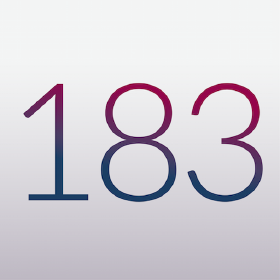
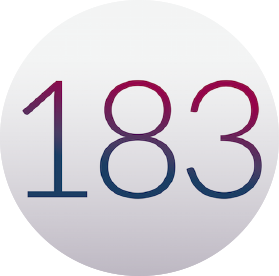
added extensions to picture fileNames, fixed some bugs/ technical issues, and hopefully some other breakthroughs

diff --git a/index.html b/index.html
@@ -35,7 +35,7 @@
     <!--Font Awesome-->
[1 lines of base64/hex data omitted]
     <script src="//ajax.googleapis.com/ajax/libs/jquery/1.10.2/jquery.min.js"></script>
-    <link rel="icon" type="image/png" href="./static/img/icon.png">
+    <link rel="icon" type="image/png" href="./icon.png">
     <title>Robro</title>
 </head>
 <body>
@@ -67,33 +67,33 @@
 	</nav>
 	<!-- Header -->  
 
-  
-<section class="hero is-medium" id = "intro-section">
-  <div class="top-header">
-		<div class="container">
-			<div class="row">
-				<div class="col-lg-6">
-					<div class="top-message">
-						<h1><img src="temporaryLogo.png"/></h1>
-						<h3>Aspiring Experience Designer</h3>
-						<hr class="top-divider">
-						<br>
-						<p>Hufflepuff :: Half Muggle :: No Carnival, No Games</p>
-					</div>
-				</div>
-				<div class="col-lg-6">
-					<div id="photos">
-						<img src="temporaryProfile.png" height="1240" width="470"/>
-					</div>
-				</div>
-			</div>
-		</div>
-	</div>  
+<section class="hero is-medium" id = "intro-section">  
+    <div class="hero-body" style="padding-top: 5rem; padding-bottom: 1rem">
+      <div class="top-header">
+		    <div class="container">
+			    <div class="row">
+				    <div class="col-lg-6">
+					    <div class="top-message">
+						    <h1><img src="nameLogo.png"/></h1>
+						    <h3>Aspiring Experience Designer</h3>
+						    <hr class="top-divider">
+						    <br>
+						    <p>Hufflepuff :: Half Muggle :: NoCarnival NoGames</p>
+					    </div>
+				    </div>
+				    <div class="col-lg-6">
+						  <img src="temporaryProfile.png" height="430" width="430"/>
+					    </div>
+				    </div>
+			    </div>
+		    </div>
+	    </div>
+  </div>
 </section>
   
   
 <section class="hero is-medium dark-section">
-  <div style="margin-top: -10px;"><img class="svgback" src="/iphoneVibe.svg"></div>
+  <div style="margin-top: -10px;"><img class="svgback" src="./iphoneVibe.svg"></div>
   <div class="hero-body" style="padding-top: 0;">
     <div class="columns">
       <div class="dark-panel column is-8 is-offset-2">
@@ -151,7 +151,6 @@
     <div class="columns">
       <div class="dark-panel column is-8 is-offset-2">
         <h4 class="section-title"><span class="section-number">02. </span>Conversion Experiences</h4>
-        <!--insert timeline here?!-->
         <div class="row">
           <div class="col-lg-12">
             <ul class="timeline">
@@ -199,7 +198,7 @@
             <li>
                 <div data-toggle="collapse" data-target=".multi-collapse-surveymonkey" aria-expanded="false" aria-controls="collapse-text-surveymonkey collapse-img-surveymonkey" class="timeline-image">
                 <div class="img_company">
-                 <img class="rounded-circle img-fluid" src="timeline/coachKhali" alt="">
+                 <img class="rounded-circle img-fluid" src="timeline/coachKhali.png" alt="">
                   </div>
                 </div>
 
@@ -245,7 +244,7 @@
                   <div class="timeline-heading">
                     <h4 class="subheading">Intro to the Tech World</h4>
                     <div>
-                       <a href="https://https://ronibara.wixsite.com/huthuthaiku" class="btn btn-warning">
+                       <a href="https://ronibara.wixsite.com/huthuthaiku" class="btn btn-warning">
                           <span style="color:white">EECS 183 </span>
                        </a>
                     </div>
@@ -276,7 +275,7 @@ EECS 183 introduced me to the world of technology. When coding threw my anxiety 
             <li>
                 <div data-toggle="collapse" data-target=".multi-collapse-gwyd" aria-expanded="false" aria-controls="collapse-text-gwyd collapse-img-gwyd" class="timeline-image">
                 <div class="img_company">
-                 <img class="rounded-circle img-fluid" src="timeline/headshot.jpeg" alt="">
+                 <img class="rounded-circle img-fluid" src="timeline/headshot.png" alt="">
                   </div>
                 </div>
 
@@ -284,7 +283,7 @@ EECS 183 introduced me to the world of technology. When coding threw my anxiety 
                   <div class="timeline-heading">
                     <h4 class="subheading">Self-Reflection</h4>
                     <div>
-                       <a href="https://https://www.imdb.com/name/nm0425005/" class="btn btn-warning">
+                       <a href="https://www.imdb.com/name/nm0425005/" class="btn btn-warning">
                           <span style="color:white">I'm'a Beast </span>
                        </a>
                     </div>

diff --git a/style.css b/style.css
@@ -121,8 +121,8 @@ h1 {
 
 .top-header {
 	padding-top: 50px;
-	color: #f8f8f8;
-	background: #ffd700;
+	color: #374262;
+	background: #fff;
 }
 
 .top-message {
@@ -142,7 +142,7 @@ h1 {
 
 .top-divider {
 	width: 100%;
-	border-top: 1px solid #f8f8f8;
+	border-top: 1px solid #374262;
 	text-shadow: 0px 1px 0px rgba(0, 0, 0, 0.2);
 	display: table;
 	height: 0px;
@@ -157,14 +157,14 @@ h1 {
 }
 
 .top-message > p {
-	font-size:14px;
+	font-size:18px;
 	line-height:22px;
 	margin-bottom:25px;
-	color:#fff;
+	color:#374262;
 }
 
 .dark-section {
-  background-image: url('../img/backgrounddark.png');
+  background-image: url('./hockeysticks.png');
   background-repeat: repeat-y;
   background-size: contain;
   width: 100vw;
